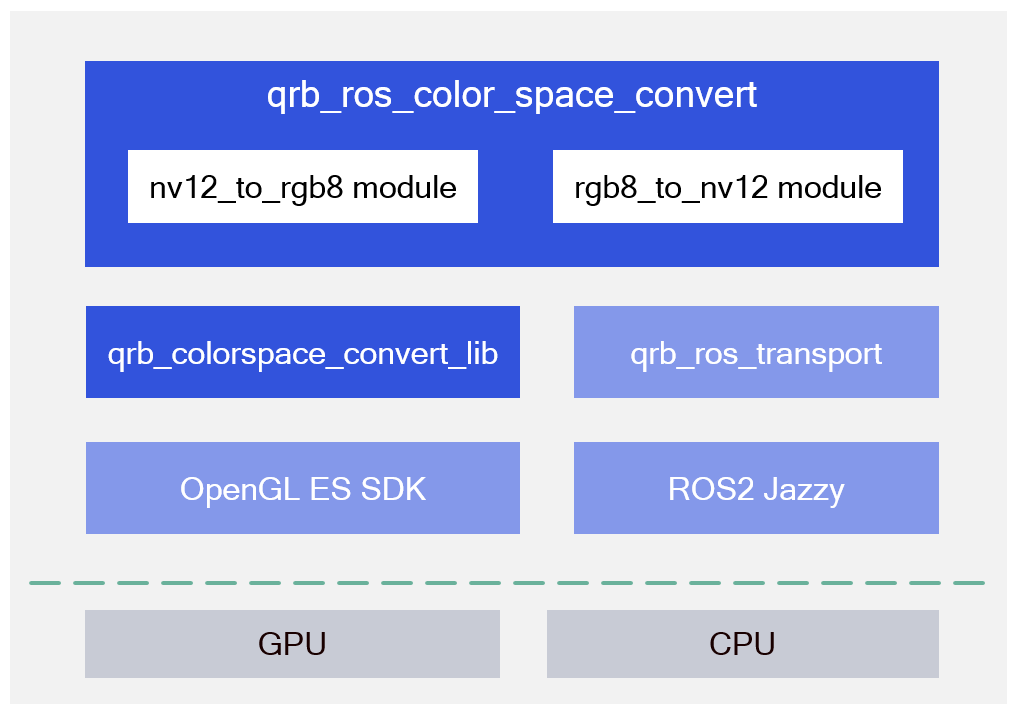
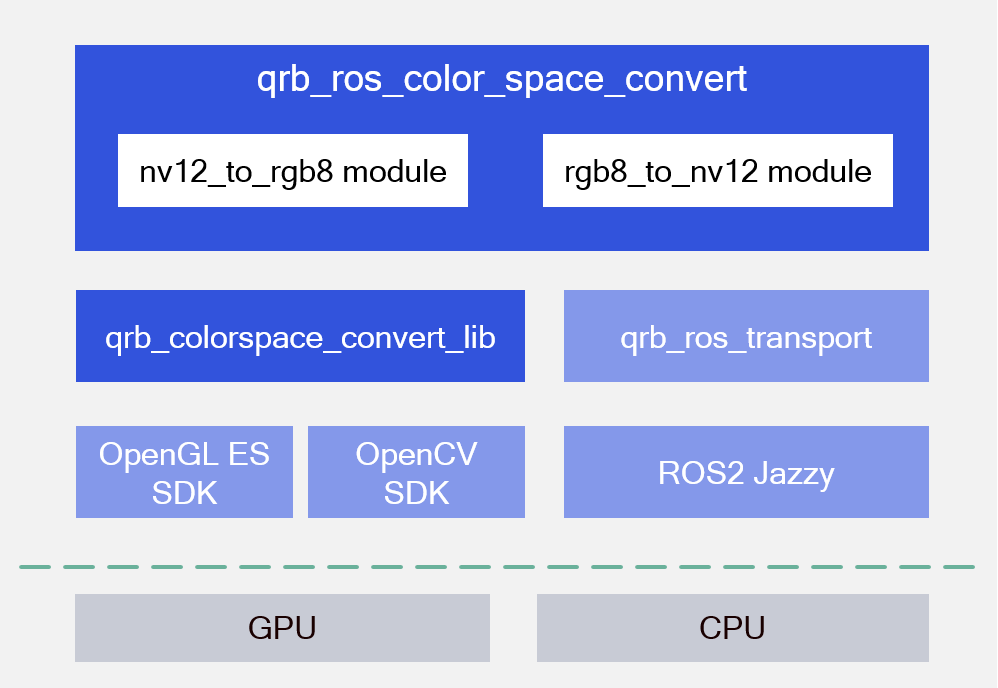
feat: update API for opencv backend

diff --git a/qrb_colorspace_convert_lib/src/colorspace_convert.cpp b/qrb_colorspace_convert_lib/src/colorspace_convert.cpp
@@ -3,6 +3,12 @@
 
 #include "qrb_colorspace_convert_lib/colorspace_convert.hpp"
 
+#include <fcntl.h>
+#include <linux/dma-buf.h>
+#include <sys/ioctl.h>
+#include <sys/mman.h>
+#include <unistd.h>
+
 #include <cstring>
 #include <iostream>
 
@@ -20,76 +26,109 @@ ConvertAccelerator::~ConvertAccelerator()
 
 #ifdef USE_OPENCV_BACKEND
 
-// OpenCV implementation - uses DmaBuffer objects directly
-bool ConvertAccelerator::nv12_to_rgb8_opencv(
-    const std::shared_ptr<lib_mem_dmabuf::DmaBuffer> & in_buf,
-    const std::shared_ptr<lib_mem_dmabuf::DmaBuffer> & out_buf,
-    int width,
-    int height,
-    int stride,
-    int slice)
+static bool dmabuf_sync(int fd, bool start)
 {
-  if (!in_buf->map() || !in_buf->sync_start()) {
+  struct dma_buf_sync sync = { 0 };
+  sync.flags = DMA_BUF_SYNC_RW | (start ? DMA_BUF_SYNC_START : DMA_BUF_SYNC_END);
+  return ioctl(fd, DMA_BUF_IOCTL_SYNC, &sync) == 0;
+}
+
+// OpenCV implementation - uses DMA_BUF file descriptors directly
+bool ConvertAccelerator::nv12_to_rgb8_opencv(int in_fd, int out_fd, int width, int height)
+{
+  size_t in_size = width * height * 3 / 2;
+  size_t out_size = width * height * 3;
+
+  void * in_addr = mmap(NULL, in_size, PROT_READ | PROT_WRITE, MAP_SHARED, in_fd, 0);
+  if (in_addr == MAP_FAILED) {
     std::cerr << "Input dmabuf mmap failed" << std::endl;
     return false;
   }
 
-  if (!out_buf->map() || !out_buf->sync_start()) {
+  if (!dmabuf_sync(in_fd, true)) {
+    std::cerr << "Input dmabuf sync start failed" << std::endl;
+    munmap(in_addr, in_size);
+    return false;
+  }
+
+  void * out_addr = mmap(NULL, out_size, PROT_READ | PROT_WRITE, MAP_SHARED, out_fd, 0);
+  if (out_addr == MAP_FAILED) {
     std::cerr << "Output dmabuf mmap failed" << std::endl;
-    in_buf->sync_end();
-    in_buf->unmap();
+    dmabuf_sync(in_fd, false);
+    munmap(in_addr, in_size);
+    return false;
+  }
+
+  if (!dmabuf_sync(out_fd, true)) {
+    std::cerr << "Output dmabuf sync start failed" << std::endl;
+    munmap(out_addr, out_size);
+    dmabuf_sync(in_fd, false);
+    munmap(in_addr, in_size);
     return false;
   }
 
   try {
     // Create OpenCV Mat for NV12 input (Y plane + UV plane)
-    cv::Mat yuv420_image(slice + slice / 2, stride, CV_8UC1, (char *)in_buf->addr());
+    cv::Mat yuv420_image(height + height / 2, width, CV_8UC1, (char *)in_addr);
 
     // Create OpenCV Mat for RGB8 output
-    cv::Mat rgb_image(slice, stride, CV_8UC3, (char *)out_buf->addr());
+    cv::Mat rgb_image(height, width, CV_8UC3, (char *)out_addr);
 
     // Convert NV12 to RGB
     cv::cvtColor(yuv420_image, rgb_image, cv::COLOR_YUV2RGB_NV12);
 
-    in_buf->sync_end();
-    in_buf->unmap();
-    out_buf->sync_end();
-    out_buf->unmap();
+    dmabuf_sync(in_fd, false);
+    munmap(in_addr, in_size);
+    dmabuf_sync(out_fd, false);
+    munmap(out_addr, out_size);
 
     return true;
   } catch (const cv::Exception & e) {
     std::cerr << "OpenCV error in NV12 to RGB8 conversion: " << e.what() << std::endl;
-    in_buf->sync_end();
-    in_buf->unmap();
-    out_buf->sync_end();
-    out_buf->unmap();
+    dmabuf_sync(in_fd, false);
+    munmap(in_addr, in_size);
+    dmabuf_sync(out_fd, false);
+    munmap(out_addr, out_size);
     return false;
   }
 }
 
-bool ConvertAccelerator::rgb8_to_nv12_opencv(
-    const std::shared_ptr<lib_mem_dmabuf::DmaBuffer> & in_buf,
-    const std::shared_ptr<lib_mem_dmabuf::DmaBuffer> & out_buf,
-    int width,
-    int height,
-    int stride,
-    int slice)
+bool ConvertAccelerator::rgb8_to_nv12_opencv(int in_fd, int out_fd, int width, int height)
 {
-  if (!in_buf->map() || !in_buf->sync_start()) {
+  size_t in_size = width * height * 3;
+  size_t out_size = width * height * 3 / 2;
+
+  void * in_addr = mmap(NULL, in_size, PROT_READ | PROT_WRITE, MAP_SHARED, in_fd, 0);
+  if (in_addr == MAP_FAILED) {
     std::cerr << "Input dmabuf mmap failed" << std::endl;
     return false;
   }
 
-  if (!out_buf->map() || !out_buf->sync_start()) {
+  if (!dmabuf_sync(in_fd, true)) {
+    std::cerr << "Input dmabuf sync start failed" << std::endl;
+    munmap(in_addr, in_size);
+    return false;
+  }
+
+  void * out_addr = mmap(NULL, out_size, PROT_READ | PROT_WRITE, MAP_SHARED, out_fd, 0);
+  if (out_addr == MAP_FAILED) {
     std::cerr << "Output dmabuf mmap failed" << std::endl;
-    in_buf->sync_end();
-    in_buf->unmap();
+    dmabuf_sync(in_fd, false);
+    munmap(in_addr, in_size);
+    return false;
+  }
+
+  if (!dmabuf_sync(out_fd, true)) {
+    std::cerr << "Output dmabuf sync start failed" << std::endl;
+    munmap(out_addr, out_size);
+    dmabuf_sync(in_fd, false);
+    munmap(in_addr, in_size);
     return false;
   }
 
   try {
     // Create OpenCV Mat for RGB8 input
-    cv::Mat rgb_image(slice, stride, CV_8UC3, (char *)in_buf->addr());
+    cv::Mat rgb_image(height, width, CV_8UC3, (char *)in_addr);
 
     // Convert RGB to YUV420 first
     cv::Mat yuv_i420;
@@ -99,11 +138,11 @@ bool ConvertAccelerator::rgb8_to_nv12_opencv(
     // I420 format: Y plane + U plane + V plane (planar)
     // NV12 format: Y plane + interleaved UV plane
 
-    uint8_t * nv12_data = (uint8_t *)out_buf->addr();
+    uint8_t * nv12_data = (uint8_t *)out_addr;
     uint8_t * i420_data = yuv_i420.data;
 
-    int y_size = stride * slice;
-    int uv_size = stride * slice / 4;
+    int y_size = width * height;
+    int uv_size = width * height / 4;
 
     // Copy Y plane directly
     memcpy(nv12_data, i420_data, y_size);
@@ -118,18 +157,18 @@ bool ConvertAccelerator::rgb8_to_nv12_opencv(
       uv_plane[i * 2 + 1] = v_plane[i];  // V
     }
 
-    in_buf->sync_end();
-    in_buf->unmap();
-    out_buf->sync_end();
-    out_buf->unmap();
+    dmabuf_sync(in_fd, false);
+    munmap(in_addr, in_size);
+    dmabuf_sync(out_fd, false);
+    munmap(out_addr, out_size);
 
     return true;
   } catch (const cv::Exception & e) {
     std::cerr << "OpenCV error in RGB8 to NV12 conversion: " << e.what() << std::endl;
-    in_buf->sync_end();
-    in_buf->unmap();
-    out_buf->sync_end();
-    out_buf->unmap();
+    dmabuf_sync(in_fd, false);
+    munmap(in_addr, in_size);
+    dmabuf_sync(out_fd, false);
+    munmap(out_addr, out_size);
     return false;
   }
 }

diff --git a/qrb_colorspace_convert_lib/include/qrb_colorspace_convert_lib/colorspace_convert.hpp b/qrb_colorspace_convert_lib/include/qrb_colorspace_convert_lib/colorspace_convert.hpp
@@ -7,8 +7,6 @@
 #ifdef USE_OPENCV_BACKEND
 #include <memory>
 #include <opencv4/opencv2/opencv.hpp>
-
-#include "lib_mem_dmabuf/dmabuf.hpp"
 #else
 #include <drm/drm_fourcc.h>
 
@@ -26,32 +24,18 @@ public:
   // Always declare both sets of methods, but only implement the active backend
 #ifdef USE_OPENCV_BACKEND
   /// Convert NV12 to RGB8 using OpenCV
-  /// @param in_buf input DmaBuffer
-  /// @param out_buf output DmaBuffer
+  /// @param in_fd input DMA_BUF file descriptor
+  /// @param out_fd output DMA_BUF file descriptor
   /// @param width image width
   /// @param height image height
-  /// @param stride aligned width for memory layout
-  /// @param slice aligned height for memory layout
-  bool nv12_to_rgb8_opencv(const std::shared_ptr<lib_mem_dmabuf::DmaBuffer> & in_buf,
-      const std::shared_ptr<lib_mem_dmabuf::DmaBuffer> & out_buf,
-      int width,
-      int height,
-      int stride,
-      int slice);
+  bool nv12_to_rgb8_opencv(int in_fd, int out_fd, int width, int height);
 
   /// Convert RGB8 to NV12 using OpenCV
-  /// @param in_buf input DmaBuffer
-  /// @param out_buf output DmaBuffer
+  /// @param in_fd input DMA_BUF file descriptor
+  /// @param out_fd output DMA_BUF file descriptor
   /// @param width image width
   /// @param height image height
-  /// @param stride aligned width for memory layout
-  /// @param slice aligned height for memory layout
-  bool rgb8_to_nv12_opencv(const std::shared_ptr<lib_mem_dmabuf::DmaBuffer> & in_buf,
-      const std::shared_ptr<lib_mem_dmabuf::DmaBuffer> & out_buf,
-      int width,
-      int height,
-      int stride,
-      int slice);
+  bool rgb8_to_nv12_opencv(int in_fd, int out_fd, int width, int height);
 #else
   /// Convert NV12 to RGB8 using OpenGL ES
   /// @param in_fd input DMA_BUF file descriptor

diff --git a/qrb_ros_colorspace_convert/src/colorspace_convert.cpp b/qrb_ros_colorspace_convert/src/colorspace_convert.cpp
@@ -96,23 +96,17 @@ bool ColorspaceConvertNode::convert_core(const qrb_ros::transport::type::Image &
   if (latency_fps_test_)
     convert_start_time_ = std::chrono::steady_clock::now();
 
-  // Calculate stride and slice for the library
-  int stride = alignd_width;
-  int slice = alignd_height;
-
   if (type == "nv12_to_rgb8") {
     out_msg->encoding = "rgb8";
 #ifdef USE_OPENCV_BACKEND
-    success = accelerator_.nv12_to_rgb8_opencv(
-        handler.dmabuf, out_msg->dmabuf, handler.width, handler.height, stride, slice);
+    success = accelerator_.nv12_to_rgb8_opencv(input_fd, output_fd, alignd_width, alignd_height);
 #else
     success = accelerator_.nv12_to_rgb8_opengles(input_fd, output_fd, alignd_width, alignd_height);
 #endif
   } else if (type == "rgb8_to_nv12") {
     out_msg->encoding = "nv12";
 #ifdef USE_OPENCV_BACKEND
-    success = accelerator_.rgb8_to_nv12_opencv(
-        handler.dmabuf, out_msg->dmabuf, handler.width, handler.height, stride, slice);
+    success = accelerator_.rgb8_to_nv12_opencv(input_fd, output_fd, alignd_width, alignd_height);
 #else
     success = accelerator_.rgb8_to_nv12_opengles(input_fd, output_fd, alignd_width, alignd_height);
 #endif

diff --git a/README.md b/README.md
@@ -102,7 +102,8 @@ The `qrb-ros-color-space-convert` sample application implements the following:
 
 ### 🔹 `qrb_colorspace_convert_lib` APIs
 
-#### GPU Backend (by OpenGLES)
+<details>
+<summary><b>GPU Backend (by OpenGLES)</b></summary>
 
 <table>
   <tr>
@@ -132,7 +133,10 @@ The `qrb-ros-color-space-convert` sample application implements the following:
   </tr>
 </table>
 
-#### CPU Backend (by OpenCV)
+</details>
+
+<details>
+<summary><b>CPU Backend (by OpenCV)</b></summary>
 
 <table>
   <tr>
@@ -141,30 +145,28 @@ The `qrb-ros-color-space-convert` sample application implements the following:
     <th>Description</th>
   </tr>
   <tr>
-    <td>bool nv12_to_rgb8_opencv(const std::shared_ptr&lt;DmaBuffer&gt;&amp; in_buf, const std::shared_ptr&lt;DmaBuffer&gt;&amp; out_buf, int width, int height, int stride, int slice)</td>
+    <td>bool nv12_to_rgb8_opencv(int in_fd, int out_fd, int width, int height)</td>
     <td>
-      in_buf – input DmaBuffer object<br>
-      out_buf – output DmaBuffer object<br>
+      in_fd – input DMA_BUF file descriptor<br>
+      out_fd – output DMA_BUF file descriptor<br>
       width – image width<br>
-      height – image height<br>
-      stride – aligned width for memory layout<br>
-      slice – aligned height for memory layout
+      height – image height
     </td>
     <td>Convert NV12 to RGB8 using OpenCV</td>
   </tr>
   <tr>
-    <td>bool rgb8_to_nv12_opencv(const std::shared_ptr&lt;DmaBuffer&gt;&amp; in_buf, const std::shared_ptr&lt;DmaBuffer&gt;&amp; out_buf, int width, int height, int stride, int slice)</td>
+    <td>bool rgb8_to_nv12_opencv(int in_fd, int out_fd, int width, int height)</td>
     <td>
-      in_buf – input DmaBuffer object<br>
-      out_buf – output DmaBuffer object<br>
+      in_fd – input DMA_BUF file descriptor<br>
+      out_fd – output DMA_BUF file descriptor<br>
       width – image width<br>
-      height – image height<br>
-      stride – aligned width for memory layout<br>
-      slice – aligned height for memory layout
+      height – image height
     </td>
     <td>Convert RGB8 to NV12 using OpenCV</td>
   </tr>
 </table>
+
+</details>
 
 
 ## 🎯 Supported targets
